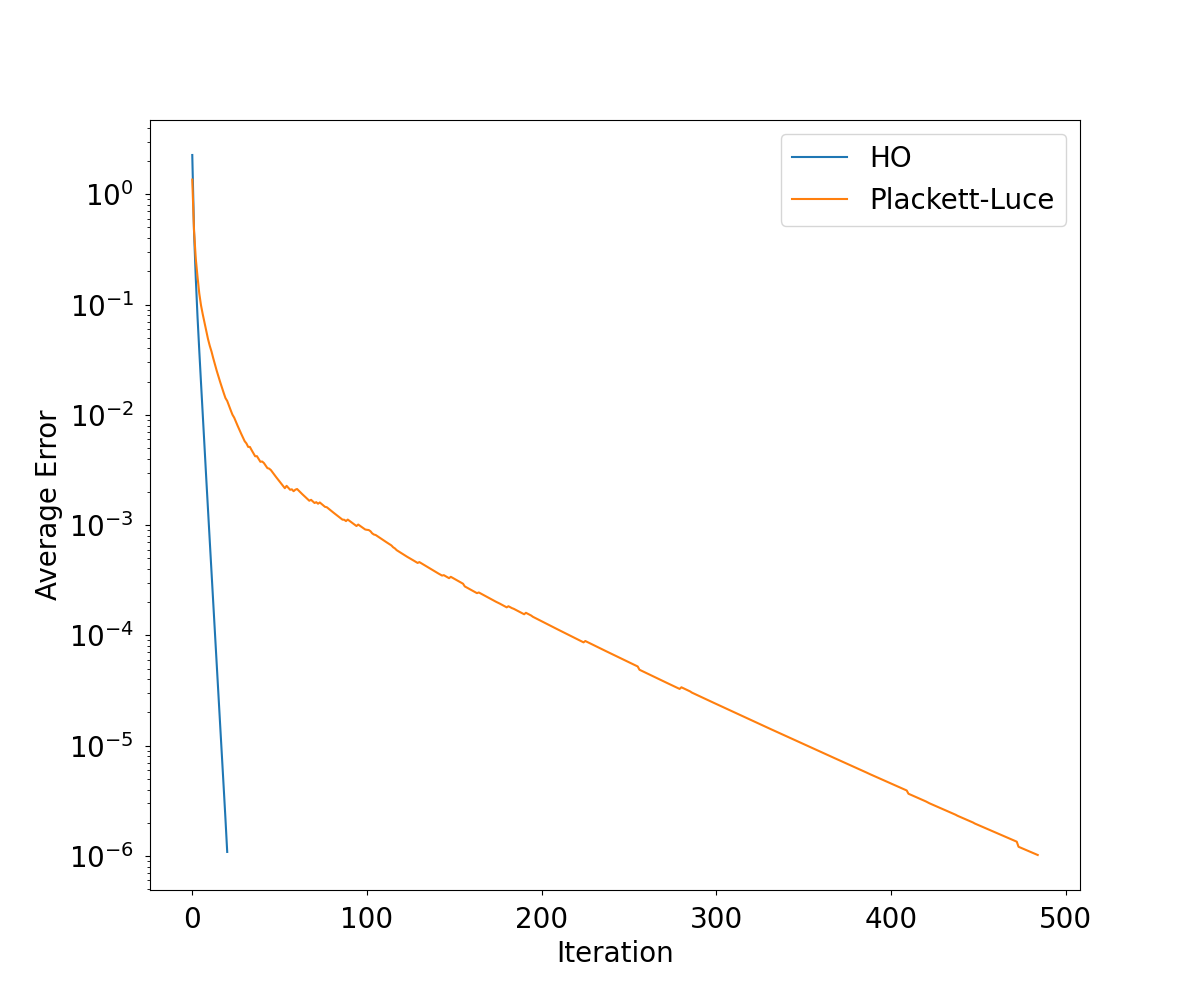
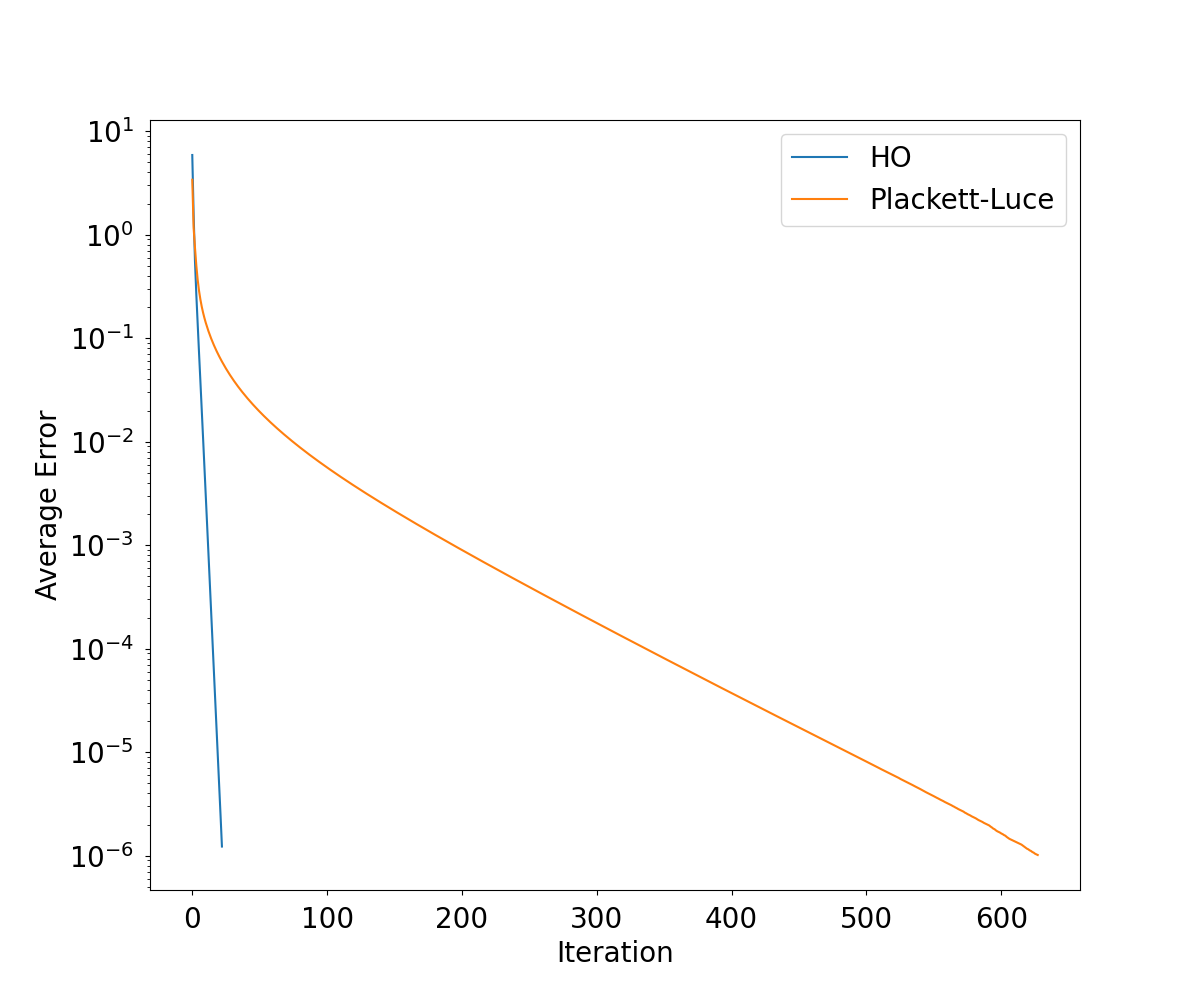
MISC: misc

diff --git a/tst/test_models.py b/tst/test_models.py
@@ -19,30 +19,30 @@ from src.utils import *
 class TestModels:
 
 
-    # def test_bin_games(self):
-    #     ''' test higher order, higher order newman, and std newman all reduce to the same predicted ratings in dyadic games'''
-    #     data, pi_values = generate_model_instance(50, 50, 2, 2)
+    def test_bin_games(self):
+        ''' test higher order, higher order newman, and std newman all reduce to the same predicted ratings in dyadic games'''
+        data, pi_values = generate_model_instance(50, 50, 2, 2)
        
-    #     data = convert_games_to_dict(data)
-    #     # Get predictions from each model
-    #     newman = get_predictions('BT', data, pi_values)
-    #     newman_leadership = get_predictions('BT_leadership', data, pi_values)
-    #     ho = get_predictions('HO_BT', data, pi_values)
-    #     hol = get_predictions('HOL_BT', data, pi_values)
+        data = convert_games_to_dict(data)
+        # Get predictions from each model
+        newman = get_predictions('BT', data, pi_values)
+        newman_leadership = get_predictions('BT_leadership', data, pi_values)
+        ho = get_predictions('HO_BT', data, pi_values)
+        hol = get_predictions('HOL_BT', data, pi_values)
         
-    #     # Assert that all prediction lists have the same length as pi_values
-    #     predictions = [newman, newman_leadership, ho, hol]
-    #     assert all(len(pred) == len(pi_values) for pred in predictions), "Length mismatch in predictions"
+        # Assert that all prediction lists have the same length as pi_values
+        predictions = [newman, newman_leadership, ho, hol]
+        assert all(len(pred) == len(pi_values) for pred in predictions), "Length mismatch in predictions"
         
         
-    #     # Check all combinations of models for closeness
-    #     model_names = ['newman', 'newman_leadership', 'higher_order_newman', 'higher_order_leadership']
-    #     for i in range(len(predictions)):
-    #         for j in range(i + 1, len(predictions)):
-    #             pred_i = predictions[i]
-    #             pred_j = predictions[j]
+        # Check all combinations of models for closeness
+        model_names = ['newman', 'newman_leadership', 'higher_order_newman', 'higher_order_leadership']
+        for i in range(len(predictions)):
+            for j in range(i + 1, len(predictions)):
+                pred_i = predictions[i]
+                pred_j = predictions[j]
 
-    #             assert all(np.isclose(pred_i[key], pred_j[key], atol=1e-10) for key in pi_values.keys()), f"Predictions differ between {model_names[i]} and {model_names[j]}"
+                assert all(np.isclose(pred_i[key], pred_j[key], atol=1e-10) for key in pi_values.keys()), f"Predictions differ between {model_names[i]} and {model_names[j]}"
 
 
 
@@ -62,44 +62,43 @@ class TestModels:
         
         # Get predictions from the model
         newman = get_predictions('BT', data_dict, pi_values)
-        print(newman)
         shuffled_newman = get_predictions('BT', shuffled_data_dict, pi_values)
         
         # Check if the predictions are close enough
         assert all(np.isclose(shuffled_newman[key], newman[key], atol=1e-15) for key in pi_values.keys())
 
 
-    # def test_leadership_shuffled(self):
-    #     ''' Check that leadership likelihood and likelihood output the same values for leadership diatic games, i.e. diadic leadership should be equivalent to diadic normal'''
-    #     data, pi_values = generate_leadership_model_instance(50, 50, 2, 2)
-    #      # Shuffle the data
-    #     shuffled = data.copy()
-    #     random.shuffle(shuffled)
+    def test_leadership_shuffled(self):
+        ''' Check that leadership likelihood and likelihood output the same values for leadership diatic games, i.e. diadic leadership should be equivalent to diadic normal'''
+        data, pi_values = generate_leadership_model_instance(50, 50, 2, 2)
+         # Shuffle the data
+        shuffled = data.copy()
+        random.shuffle(shuffled)
 
-    #     data_dict = convert_games_to_dict(data)
-    #     shuffled_data_dict = convert_games_to_dict(shuffled)
+        data_dict = convert_games_to_dict(data)
+        shuffled_data_dict = convert_games_to_dict(shuffled)
 
-    #     # Get predictions from each model
-    #     newman = get_predictions('BT_leadership', data_dict, pi_values)
-    #     shuffled_newman = get_predictions('BT_leadership', shuffled_data_dict, pi_values)
+        # Get predictions from each model
+        newman = get_predictions('BT_leadership', data_dict, pi_values)
+        shuffled_newman = get_predictions('BT_leadership', shuffled_data_dict, pi_values)
         
-    #     # Check all combinations of models for closene
-    #     assert all(np.isclose(shuffled_newman[key], newman[key], atol=1e-6) for key in pi_values.keys())
+        # Check all combinations of models for closene
+        assert all(np.isclose(shuffled_newman[key], newman[key], atol=1e-6) for key in pi_values.keys())
 
-    # def test_leadership_similarity(self): 
-    #     ''' Check that leadership likelihood and likelihood output the same predicted ratings for synthetic diatic games'''
-    #     models = [('newman', 'newman_leadership'), ('higher_order_newman', 'higher_order_leadership'), ('spring_rank', 'spring_rank_leadership'), ('page_rank', 'page_rank_leadership')] 
+    def test_leadership_similarity(self): 
+        ''' Check that leadership likelihood and likelihood output the same predicted ratings for synthetic diatic games'''
+        models = [('BT', 'BT_leadership'), ('HO_BT', 'HOL_BT'), ('Spring_Rank', 'Spring_Rank_Leadership'), ('Page_Rank', 'Page_Rank_Leadership')] 
 
-    #     for model, leadership in models: 
+        for model, leadership in models: 
 
-    #         data, pi_values = generate_model_instance(50, 50, 2, 2)
+            data, pi_values = generate_model_instance(50, 50, 2, 2)
                 
-    #         data = convert_games_to_dict(data)
+            data = convert_games_to_dict(data)
 
-    #         model = get_predictions(model, data, pi_values)
-    #         leadership = get_predictions(leadership, data, pi_values)
+            model = get_predictions(model, data, pi_values)
+            leadership = get_predictions(leadership, data, pi_values)
 
-    #         assert all(np.isclose(leadership[key], model[key], atol=1e-15) for key in pi_values.keys())
+            assert all(np.isclose(leadership[key], model[key], atol=1e-15) for key in pi_values.keys())
 
 
 

diff --git a/src/utils/convergence_test_helpers.py b/src/utils/convergence_test_helpers.py
@@ -18,8 +18,8 @@ from src.models.zermello import *
 # Modified Solver function  to Keep Track of iterations for Genralized Newman 
 def synch_solve_equations_info(bond_matrix, max_iter, pi_values, method, sens=1e-6):
     scores = {}
-    log_distribution = np.sqrt(np.exp(logistic.rvs(size=len(pi_values))))
-    scores = {n: log_distribution[n] for n in pi_values}
+    logistic_distribution = np.sqrt(np.exp(logistic.rvs(size=len(pi_values))))
+    scores = {n: logistic_distribution[n] for n in pi_values}
     normalize_scores_old(scores)
 
     info = {}
@@ -38,11 +38,12 @@ def synch_solve_equations_info(bond_matrix, max_iter, pi_values, method, sens=1e
         normalize_scores_old(tmp_scores)
 
         for s in tmp_scores:
-            if abs(tmp_scores[s]-scores[s]) > err:
-                err = abs(np.log(tmp_scores[s])-np.log(scores[s]))
+            cur_err = abs(np.log(tmp_scores[s])-np.log(scores[s]))
+            if cur_err > err:
+                err = cur_err
             scores[s] = tmp_scores[s]
-                
-        # print(err)
+
+
         iteration += 1
         info[iteration] = err
 

diff --git a/tst/tst_weight_conversion/test_BT.py b/tst/tst_weight_conversion/test_BT.py
@@ -144,8 +144,8 @@ def synch_solve_equations_old_verbose(bond_matrix, max_iter, pi_values, method, 
 def synch_solve_equations_verbose(bond_matrix, max_iter, pi_values, method, sens=1e-6):
     players = np.array(list(pi_values.keys()))
     scores = np.ones(len(pi_values))
-
-
+    ## prior
+    # scores = np.sqrt(np.exp(logistic.rvs(size=len(pi_values))))
     normalize_scores_numpy(scores)
 
 

diff --git a/exp/ex07/ex07.py b/exp/ex07/ex07.py
@@ -21,6 +21,7 @@ def average_convergence(repetitions, out_file_dir):
             futures.append(executor.submit(save_convergence_data, file_name, data, pi_values))
 
 
+
      
 
 
